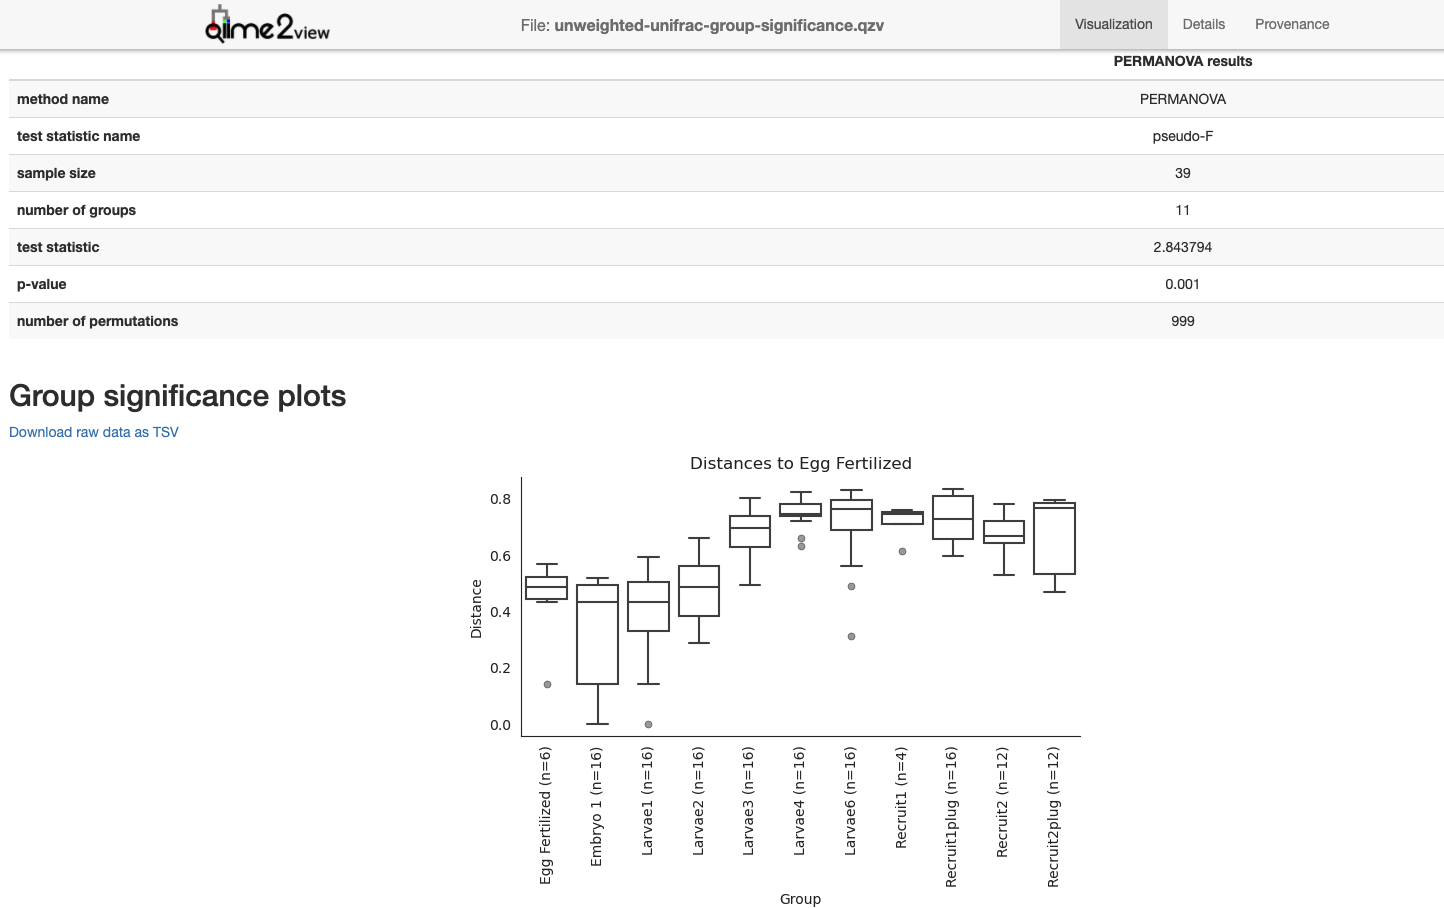
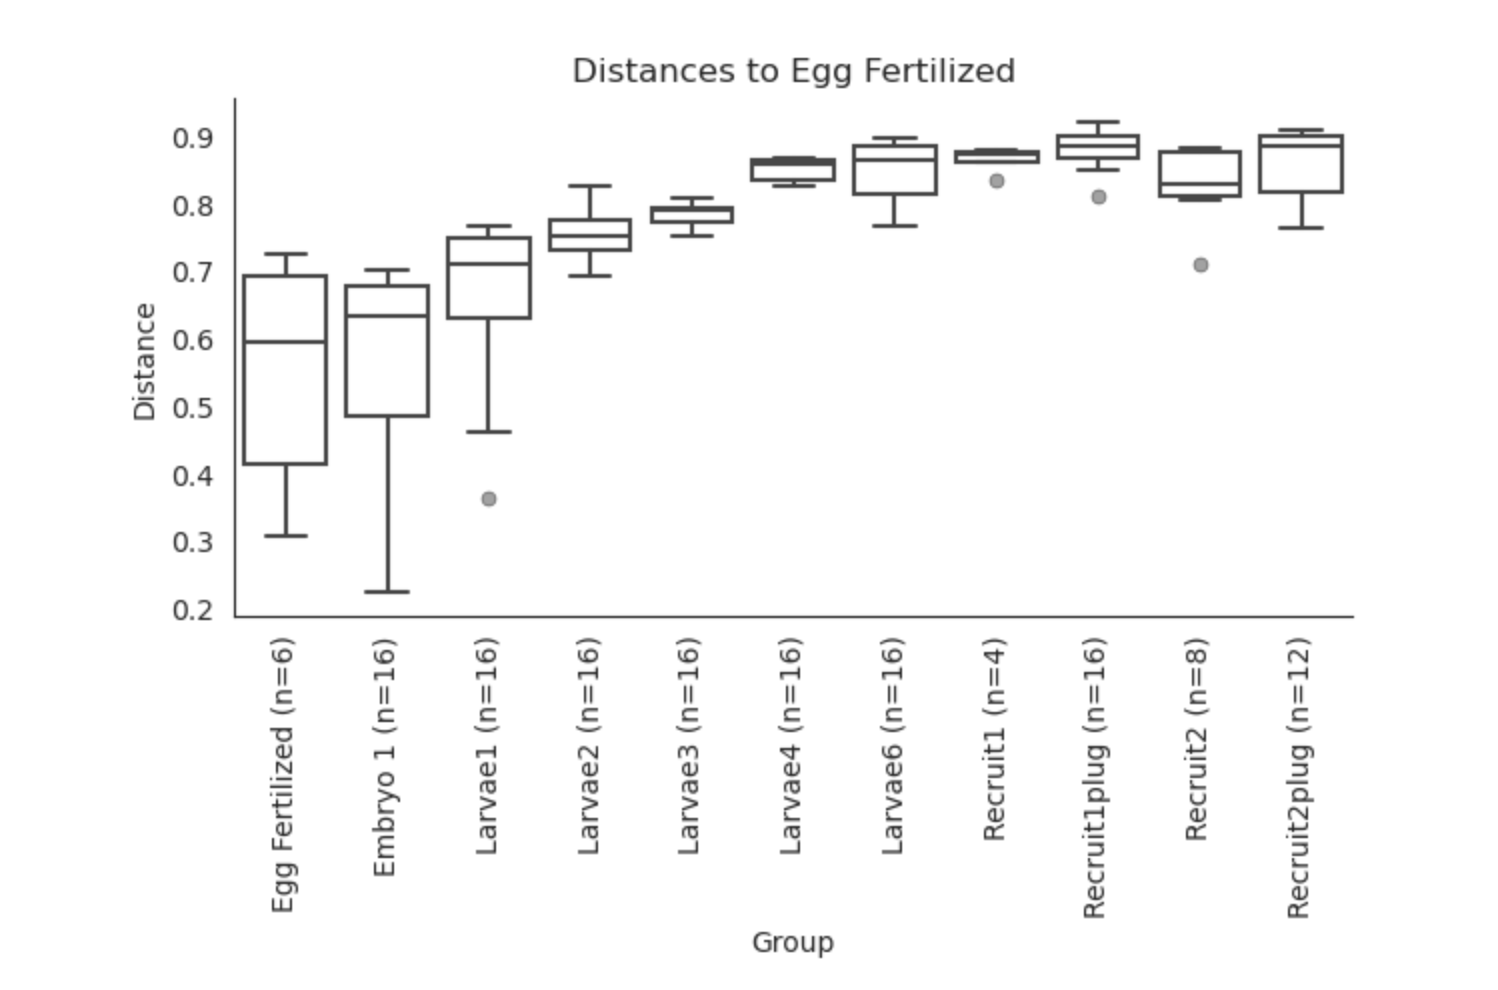
updated qiime post

diff --git a/_posts/2021-12-30-Mcapitata-Development-16S-Analysis-Part-3.md b/_posts/2021-12-30-Mcapitata-Development-16S-Analysis-Part-3.md
@@ -1,6 +1,6 @@
 ---
 layout: post
-title: Mcapitata Development 16S Analysis Part 3
+title: Mcapitata Development 16S Analysis in QIIME2
 date: '2021-12-30'
 categories: Mcapitata_EarlyLifeHistory_2020
 tags: 16S Mcapitata Molecular Protocol
@@ -33,12 +33,16 @@ P-trim values are based on primer length:
 - p-trim-left-r 20 (reverse is 20 bp long)
 - p-trim-left-f 19 (forward is 19 bp long)
 
-Primer information for our sequencing run [is here](https://emmastrand.github.io/EmmaStrand_Notebook/16s-Sequencing-HoloInt/). We used the V4 primer region.   
+`  --p-trim-left-r 20 --p-trim-left-f 19 \`
+
+*The code does not include these primer trimming parameters because our sequences were returned without primers*   
+
+Information for our sequencing run [is here](https://emmastrand.github.io/EmmaStrand_Notebook/16s-Sequencing-HoloInt/). We used the V4 primer region.   
 
 P-truncate values are based on where the mean quality scores of R1 and R2 files start to decrease seen in the MultiQC report:    
 
-- p-trunc-len-r 192
-- p-trunc-len-f 245
+- p-trunc-len-r 282  
+- p-trunc-len-f 282  
 
 Forward sequences: 
 ![forward](https://ahuffmyer.github.io/ASH_Putnam_Lab_Notebook/images/NotebookImages/16S/forwardquality.png)  
@@ -68,6 +72,8 @@ Other commands used in the script are as follows:
 
 This script will also generate qiime metadata table, feature-table summarized and feature-table tabulated. This will be output in the `processed_data` directory and the script lives in the `script` directory.   
 
+`nano denoise.sh`  
+
 ```
 #!/bin/bash
 #SBATCH -t 24:00:00
@@ -89,8 +95,8 @@ cd ../processed_data
 METADATA="../metadata/sample_metadata.txt"
 
 qiime dada2 denoise-paired --verbose --i-demultiplexed-seqs ../raw_data/AH-MCAP-16S-paired-end-sequences1.qza \
-  --p-trunc-len-r 192 --p-trunc-len-f 245 \
-  --p-trim-left-r 20 --p-trim-left-f 19 \
+  --p-trunc-len-r 192 --p-trunc-len-f 247 \
+  --p-trim-left-r 0 --p-trim-left-f 0 \
   --o-table table.qza \
   --o-representative-sequences rep-seqs.qza \
   --o-denoising-stats denoising-stats.qza \
@@ -129,7 +135,7 @@ We get the following metadata table:
 
 ![denoise](https://ahuffmyer.github.io/ASH_Putnam_Lab_Notebook/images/NotebookImages/16S/denoise_meta.png) 
 
-Approx. 70-75% of sequence input passed the filters set in the script above. 
+Approx. 65-70% of sequence input passed the filters set in the script above. 
 
 Percentage of non-chimeric is approx. 40-50%.  
 
@@ -252,12 +258,20 @@ qiime metadata tabulate \
     --o-visualization tabulated-feature-metadata.qzv
 ```
 
+
+
+
+
+
+
+
+
 Move relevant visualization files to the desktop. We will move all files over in the next steps.   
 
 ```
-scp ashuffmyer@bluewaves.uri.edu:/data/putnamlab/ashuffmyer/AH_MCAP_16S/processed_data/taxa-bar-plots.qzv ~/MyProjects/EarlyLifeHistory_Energetics/Mcap2020/Output/16S/qiime/analysis_Feb16
+scp ashuffmyer@bluewaves.uri.edu:/data/putnamlab/ashuffmyer/AH_MCAP_16S/processed_data/taxa-bar-plots.qzv ~/MyProjects/EarlyLifeHistory_Energetics/Mcap2020/Output/16S/qiime/
 
-scp ashuffmyer@bluewaves.uri.edu:/data/putnamlab/ashuffmyer/AH_MCAP_16S/processed_data/taxa-bar-plots-filtered.qzv ~/MyProjects/EarlyLifeHistory_Energetics/Mcap2020/Output/16S/qiime/analysis_Feb16
+scp ashuffmyer@bluewaves.uri.edu:/data/putnamlab/ashuffmyer/AH_MCAP_16S/processed_data/taxa-bar-plots-filtered.qzv ~/MyProjects/EarlyLifeHistory_Energetics/Mcap2020/Output/16S/qiime/
 
 ```
 Before filtering, our taxonomy (level 1) looks like this: 
@@ -385,28 +399,39 @@ qiime diversity beta-group-significance \
     --o-visualization alpha-rarefaction.qzv
 ```
 
+
+
+
+
+
+
+
+
+
+
+
 Move all data files to the desktop.  
 
 ```
-scp ashuffmyer@bluewaves.uri.edu:/data/putnamlab/ashuffmyer/AH_MCAP_16S/processed_data/alpha-rarefaction.qzv ~/MyProjects/EarlyLifeHistory_Energetics/Mcap2020/Output/16S/qiime/analysis_Feb16
+scp ashuffmyer@bluewaves.uri.edu:/data/putnamlab/ashuffmyer/AH_MCAP_16S/processed_data/alpha-rarefaction.qzv ~/MyProjects/EarlyLifeHistory_Energetics/Mcap2020/Output/16S/qiime/
 
-scp ashuffmyer@bluewaves.uri.edu:/data/putnamlab/ashuffmyer/AH_MCAP_16S/processed_data/tabulated-feature-metadata.qzv ~/MyProjects/EarlyLifeHistory_Energetics/Mcap2020/Output/16S/qiime/analysis_Feb16
+scp ashuffmyer@bluewaves.uri.edu:/data/putnamlab/ashuffmyer/AH_MCAP_16S/processed_data/tabulated-feature-metadata.qzv ~/MyProjects/EarlyLifeHistory_Energetics/Mcap2020/Output/16S/qiime/
 
-scp ashuffmyer@bluewaves.uri.edu:/data/putnamlab/ashuffmyer/AH_MCAP_16S/processed_data/taxonomy.qzv ~/MyProjects/EarlyLifeHistory_Energetics/Mcap2020/Output/16S/qiime/analysis_Feb16
+scp ashuffmyer@bluewaves.uri.edu:/data/putnamlab/ashuffmyer/AH_MCAP_16S/processed_data/taxonomy.qzv ~/MyProjects/EarlyLifeHistory_Energetics/Mcap2020/Output/16S/qiime/
 
-scp ashuffmyer@bluewaves.uri.edu:/data/putnamlab/ashuffmyer/AH_MCAP_16S/processed_data/table.qzv ~/MyProjects/EarlyLifeHistory_Energetics/Mcap2020/Output/16S/qiime/analysis_Feb16
+scp ashuffmyer@bluewaves.uri.edu:/data/putnamlab/ashuffmyer/AH_MCAP_16S/processed_data/table.qzv ~/MyProjects/EarlyLifeHistory_Energetics/Mcap2020/Output/16S/qiime/
 
-scp ashuffmyer@bluewaves.uri.edu:/data/putnamlab/ashuffmyer/AH_MCAP_16S/processed_data/denoising-stats.qzv ~/MyProjects/EarlyLifeHistory_Energetics/Mcap2020/Output/16S/qiime/analysis_Feb16
+scp ashuffmyer@bluewaves.uri.edu:/data/putnamlab/ashuffmyer/AH_MCAP_16S/processed_data/denoising-stats.qzv ~/MyProjects/EarlyLifeHistory_Energetics/Mcap2020/Output/16S/qiime/
 
-scp ashuffmyer@bluewaves.uri.edu:/data/putnamlab/ashuffmyer/AH_MCAP_16S/processed_data/core-metrics-results/*.qzv ~/MyProjects/EarlyLifeHistory_Energetics/Mcap2020/Output/16S/qiime/analysis_Feb16
+scp ashuffmyer@bluewaves.uri.edu:/data/putnamlab/ashuffmyer/AH_MCAP_16S/processed_data/core-metrics-results/*.qzv ~/MyProjects/EarlyLifeHistory_Energetics/Mcap2020/Output/16S/qiime/
 
-scp ashuffmyer@bluewaves.uri.edu:/data/putnamlab/ashuffmyer/AH_MCAP_16S/processed_data/core-metrics-results/*.qza ~/MyProjects/EarlyLifeHistory_Energetics/Mcap2020/Output/16S/qiime/analysis_Feb16
+scp ashuffmyer@bluewaves.uri.edu:/data/putnamlab/ashuffmyer/AH_MCAP_16S/processed_data/core-metrics-results/*.qza ~/MyProjects/EarlyLifeHistory_Energetics/Mcap2020/Output/16S/qiime/
 
-scp ashuffmyer@bluewaves.uri.edu:/data/putnamlab/ashuffmyer/AH_MCAP_16S/processed_data/*.qza ~/MyProjects/EarlyLifeHistory_Energetics/Mcap2020/Output/16S/qiime/analysis_Feb16
+scp ashuffmyer@bluewaves.uri.edu:/data/putnamlab/ashuffmyer/AH_MCAP_16S/processed_data/*.qza ~/MyProjects/EarlyLifeHistory_Energetics/Mcap2020/Output/16S/qiime/
 
-scp ashuffmyer@bluewaves.uri.edu:/data/putnamlab/ashuffmyer/AH_MCAP_16S/processed_data/*.qzv ~/MyProjects/EarlyLifeHistory_Energetics/Mcap2020/Output/16S/qiime/analysis_Feb16
+scp ashuffmyer@bluewaves.uri.edu:/data/putnamlab/ashuffmyer/AH_MCAP_16S/processed_data/*.qzv ~/MyProjects/EarlyLifeHistory_Energetics/Mcap2020/Output/16S/qiime/
 
-scp ashuffmyer@bluewaves.uri.edu:/data/putnamlab/ashuffmyer/AH_MCAP_16S/metadata/sample_metadata.txt ~/MyProjects/EarlyLifeHistory_Energetics/Mcap2020/Output/16S/qiime/analysis_Feb16
+scp ashuffmyer@bluewaves.uri.edu:/data/putnamlab/ashuffmyer/AH_MCAP_16S/metadata/sample_metadata.txt ~/MyProjects/EarlyLifeHistory_Energetics/Mcap2020/Output/16S/qiime/
 
 ```
 
